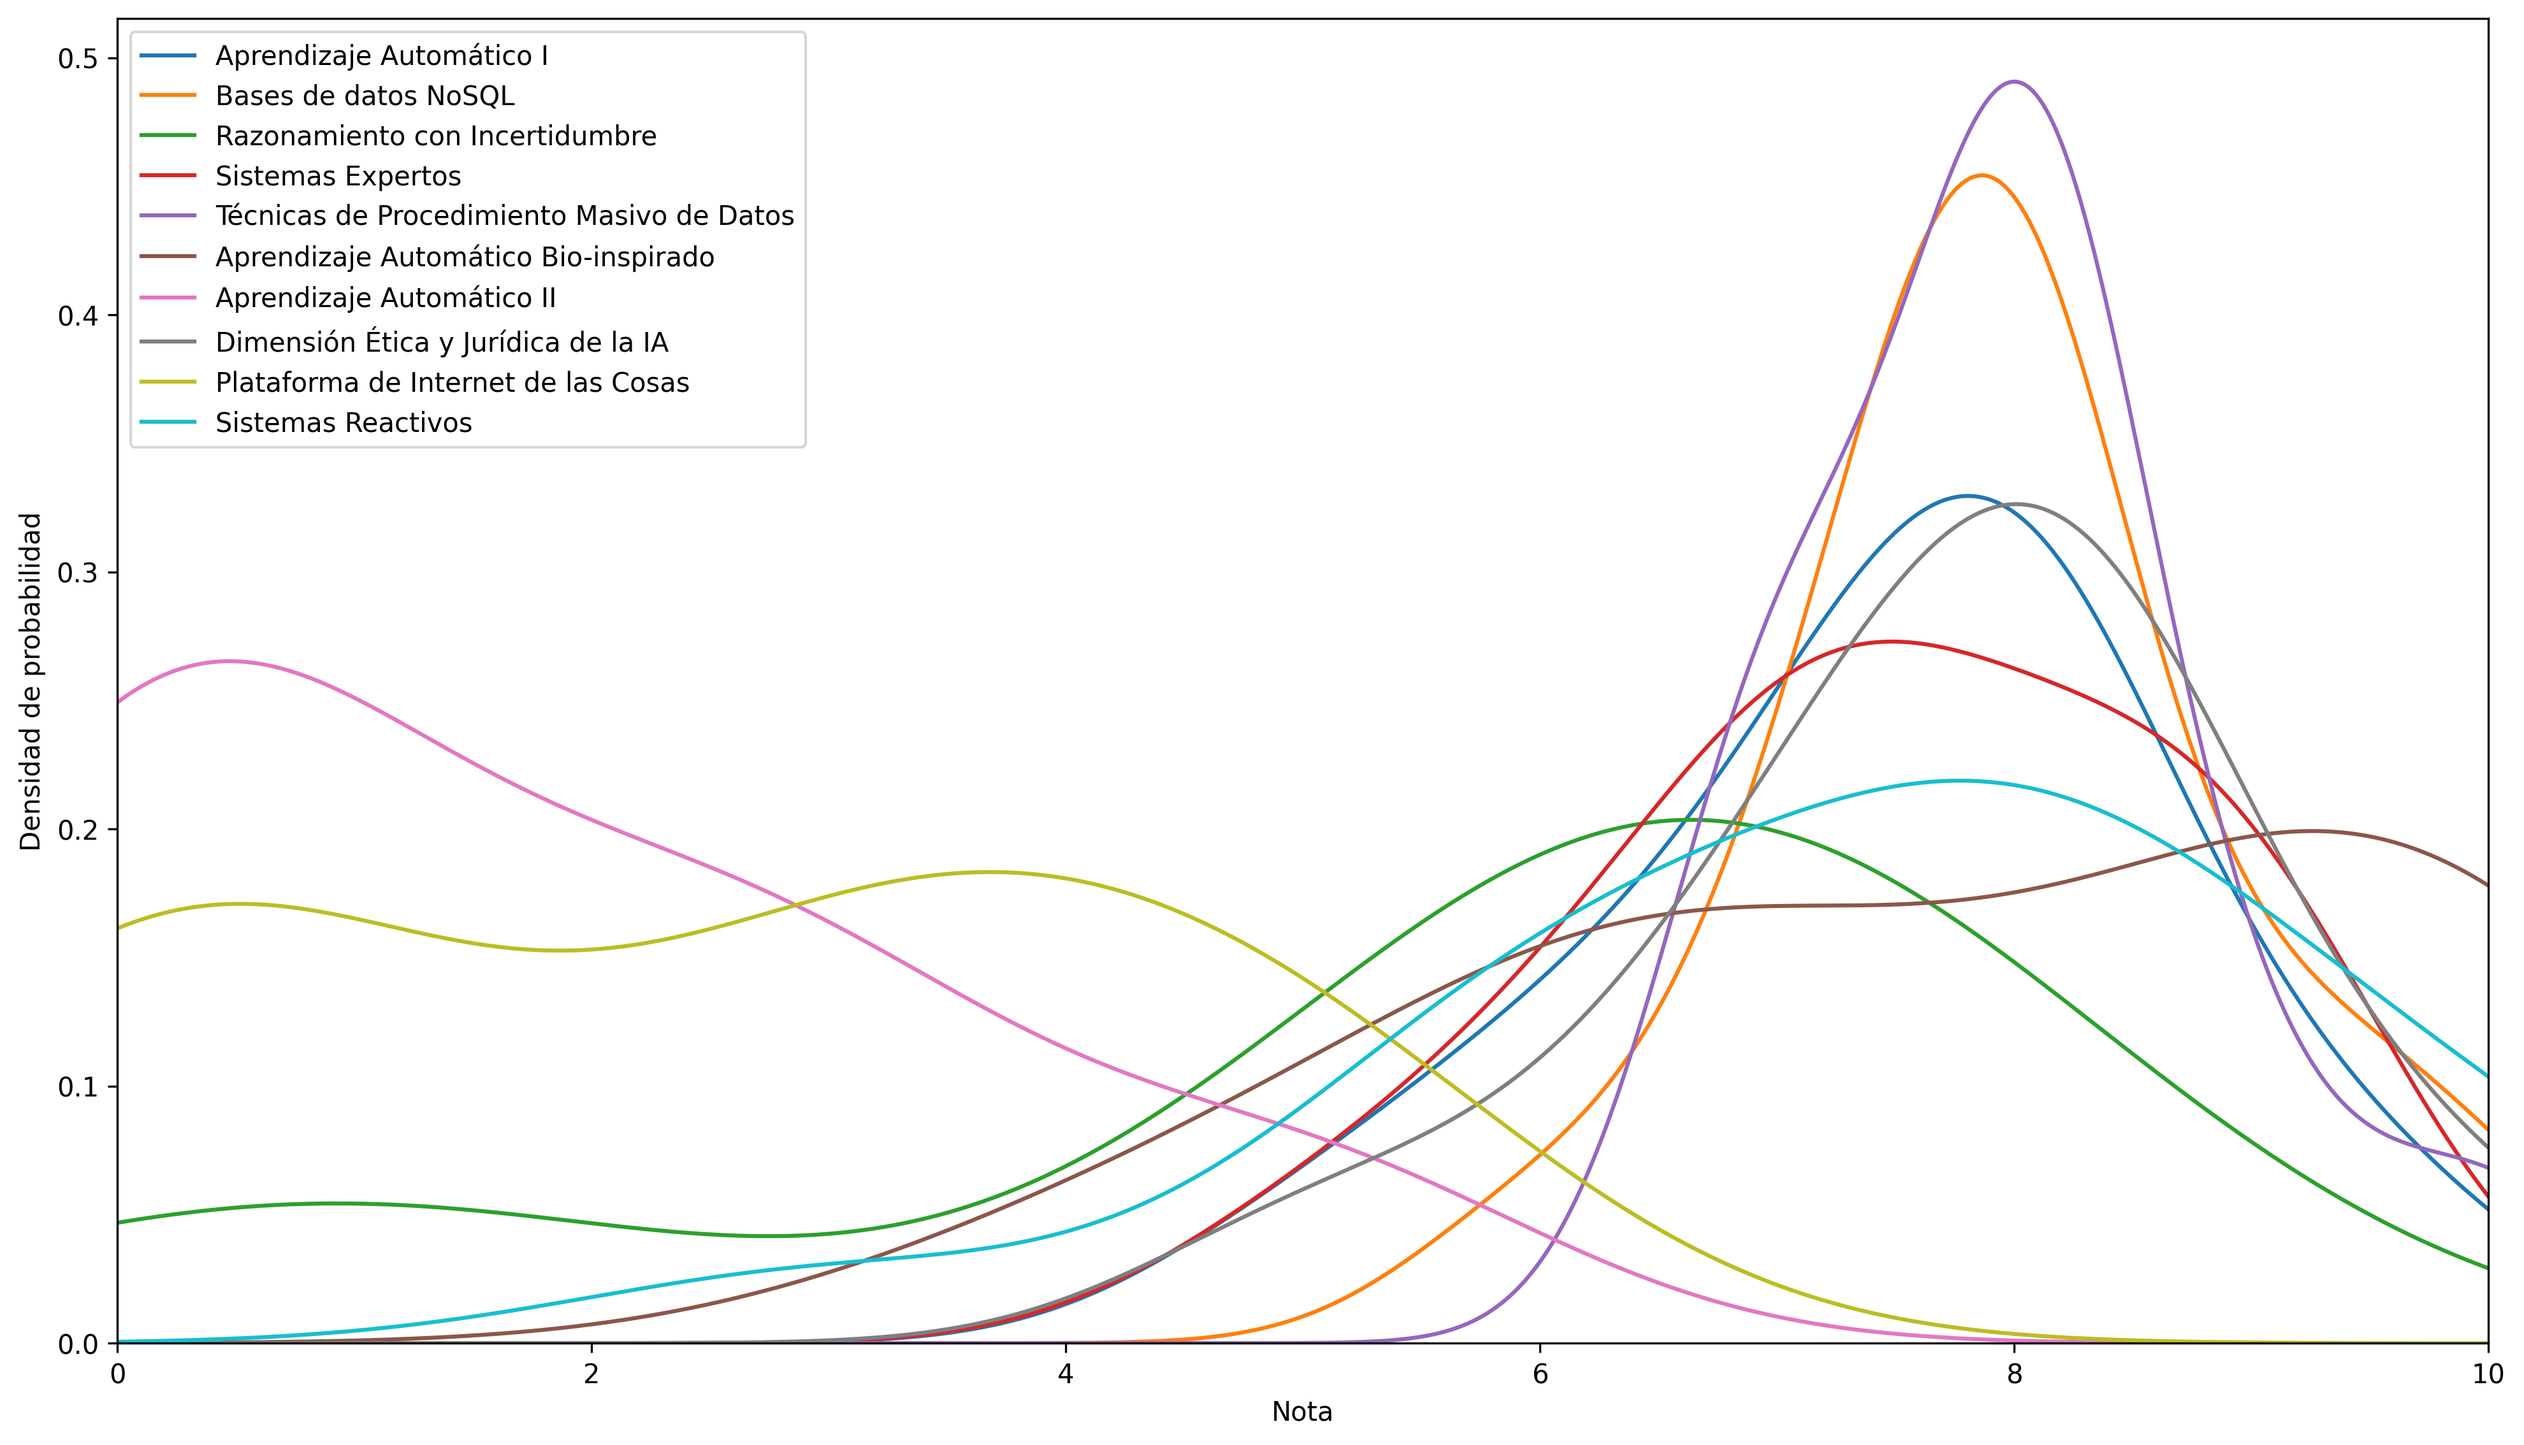
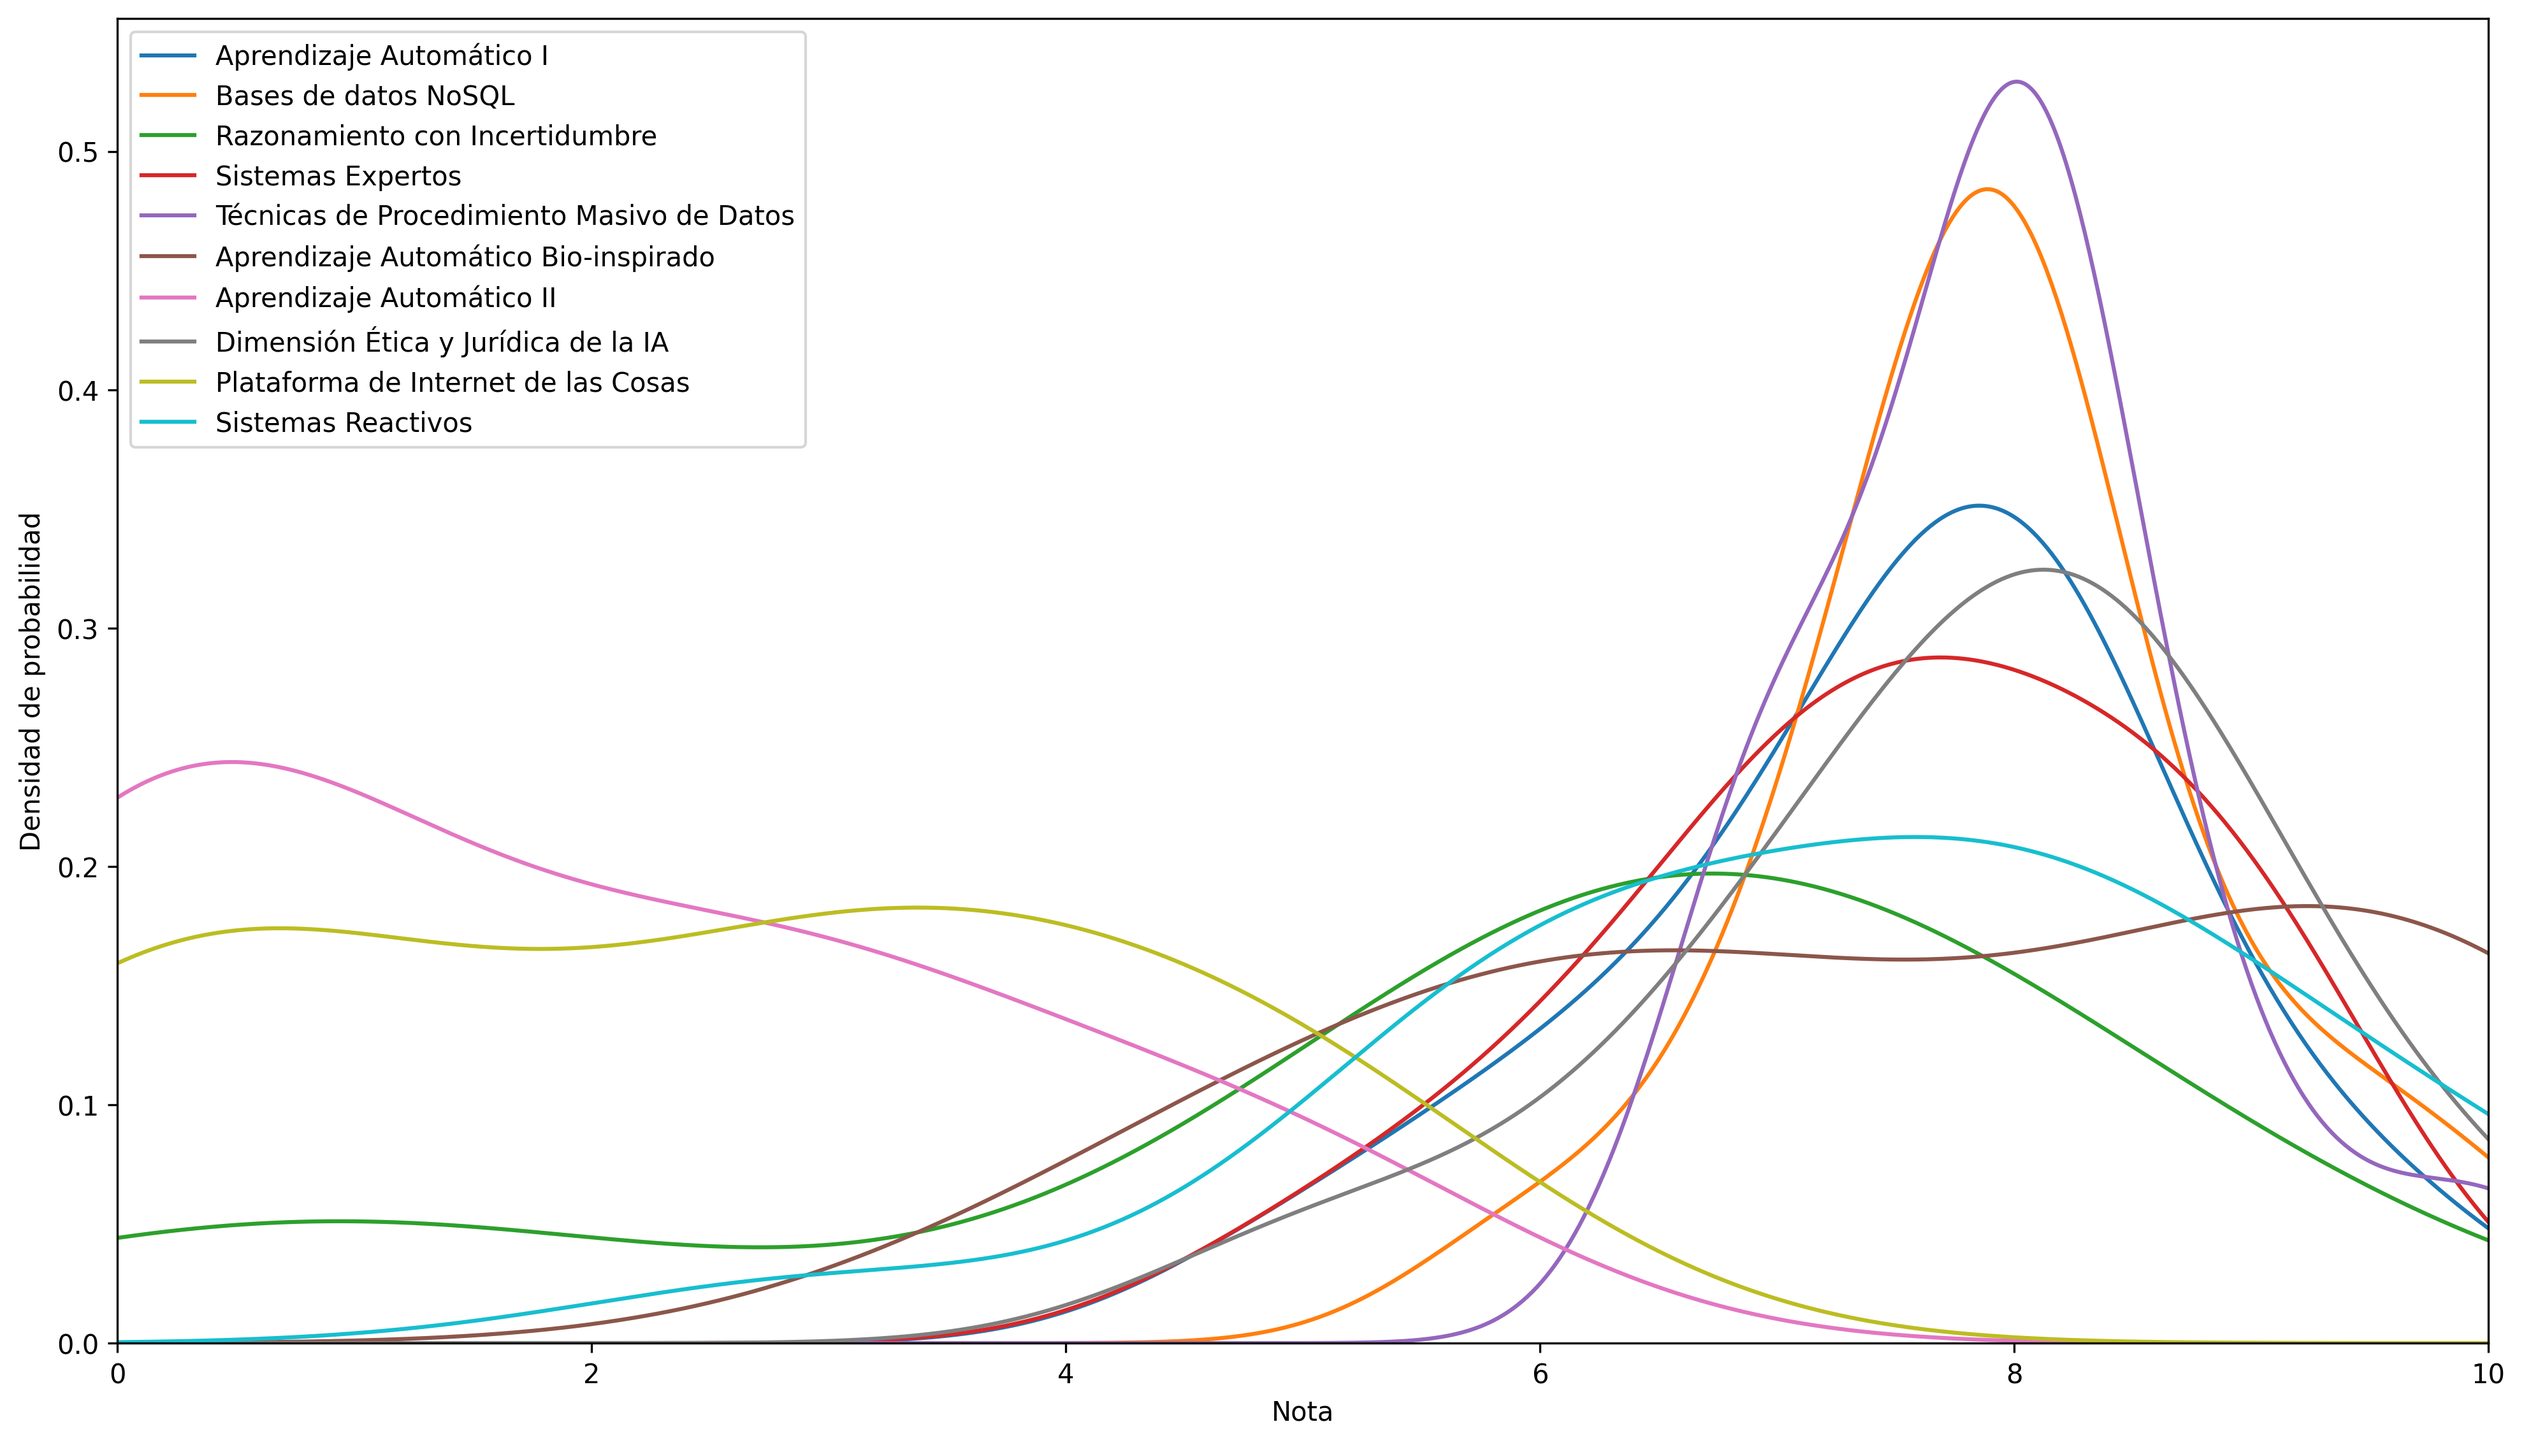
Executed main.py [GitHub Action]

diff --git a/README.md b/README.md
@@ -6,18 +6,18 @@ Este es un repositorio que calcula distintos métodos de votación y métricas p
 
 Estas son distintas métricas para todas las asignaturas, ordenadas por su media.
 
-| <img width="1000"><br><p align="center">Asignatura | <img width="1000"><br><p align="center">Media | <img width="1000"><br><p align="center">Desviación típica | <img width="1000"><br><p align="center">Mediana | <img width="1000"><br><p align="center">Moda | <img width="1000"><br><p align="center">Máximo | <img width="1000"><br><p align="center">Mínimo | <img width="1000"><br><p align="center">Número de alumnos |
-| :------------------------------------------------- | :-------------------------------------------: | :-------------------------------------------------------: | :---------------------------------------------: | :------------------------------------------: | :--------------------------------------------: | :--------------------------------------------: | --------------------------------------------------------: |
-| Técnicas de Procedimiento Masivo de Datos          |                     7.97                      |                           0.84                            |                        8                        |                      8                       |                       10                       |                       7                        |                                                        14 |
-| Bases de datos NoSQL                               |                     7.95                      |                           0.97                            |                        8                        |                      8                       |                       10                       |                       6                        |                                                        15 |
-| Aprendizaje Automático Bio-inspirado               |                     7.77                      |                           1.98                            |                        8                        |                      10                      |                       10                       |                       4                        |                                                        15 |
-| Dimensión Ética y Jurídica de la IA                |                     7.73                      |                           1.26                            |                        8                        |                      8                       |                       10                       |                       5                        |                                                        14 |
-| Aprendizaje Automático I                           |                     7.49                      |                           1.19                            |                        8                        |                      8                       |                      9.6                       |                       5                        |                                                        15 |
-| Sistemas Expertos                                  |                     7.49                      |                           1.23                            |                       7.5                       |                      7                       |                       9                        |                       5                        |                                                        15 |
-| Sistemas Reactivos                                 |                     7.35                      |                           1.85                            |                        8                        |                      8                       |                       10                       |                       3                        |                                                        15 |
-| Razonamiento con Incertidumbre                     |                     5.48                      |                           2.54                            |                       6.2                       |                      7                       |                       8                        |                       0                        |                                                        15 |
-| Plataforma de Internet de las Cosas                |                     2.39                      |                             2                             |                        3                        |                      0                       |                       5                        |                       0                        |                                                        14 |
-| Aprendizaje Automático II                          |                     1.68                      |                           1.78                            |                        1                        |                      0                       |                       5                        |                       0                        |                                                        15 |
+| <img width="1000"><br><p align="center">Asignatura  | <img width="1000"><br><p align="center">Media  | <img width="1000"><br><p align="center">Desviación típica  | <img width="1000"><br><p align="center">Mediana  | <img width="1000"><br><p align="center">Moda  | <img width="1000"><br><p align="center">Máximo  | <img width="1000"><br><p align="center">Mínimo  | <img width="1000"><br><p align="center">Número de alumnos |
+|:--|:--:|:--:|:--:|:--:|:--:|:--:|--:|
+| Técnicas de Procedimiento Masivo de Datos  | 7.97  | 0.81  | 8  | 8  | 10  | 7  | 15 |
+| Bases de datos NoSQL  | 7.96  | 0.94  | 8  | 8  | 10  | 6  | 16 |
+| Dimensión Ética y Jurídica de la IA  | 7.81  | 1.26  | 8  | 8  | 10  | 5  | 15 |
+| Aprendizaje Automático Bio-inspirado  | 7.6  | 2.04  | 7.5  | 10  | 10  | 4  | 16 |
+| Aprendizaje Automático I  | 7.52  | 1.16  | 8  | 8  | 9.6  | 5  | 16 |
+| Sistemas Expertos  | 7.52  | 1.2  | 7.75  | 7  | 9  | 5  | 16 |
+| Sistemas Reactivos  | 7.27  | 1.82  | 7.65  | 6  | 10  | 3  | 16 |
+| Razonamiento con Incertidumbre  | 5.7  | 2.61  | 6.35  | 7  | 9  | 0  | 16 |
+| Plataforma de Internet de las Cosas  | 2.37  | 1.93  | 3  | 0  | 5  | 0  | 15 |
+| Aprendizaje Automático II  | 1.83  | 1.82  | 1.5  | 0  | 5  | 0  | 16 |
 
 ## Distribuciones de probabilidad
 
@@ -36,14 +36,15 @@ Estas son las distribuciones normales usando la media y desviación típica de c
 Para el método Schulze se necesita un ranking de cada votante para todas las opciones. Como en este caso tenemos una nota numérica, se pone que un votante prefiere una asignatura sobre otra si le ha dado una nota mayor. Esto se divide por el número de alumnos que han votado a las dos asignaturas para normalizar.
 
 | <img width="1000"><br><p align="center">Asignatura |
-| :------------------------------------------------: |
-|                Bases de datos NoSQL                |
-|     Técnicas de Procedimiento Masivo de Datos      |
-|        Aprendizaje Automático Bio-inspirado        |
-|        Dimensión Ética y Jurídica de la IA         |
-|              Aprendizaje Automático I              |
-|                 Sistemas Expertos                  |
-|                 Sistemas Reactivos                 |
-|           Razonamiento con Incertidumbre           |
-|        Plataforma de Internet de las Cosas         |
-|             Aprendizaje Automático II              |
+|:--:|
+| Bases de datos NoSQL |
+| Técnicas de Procedimiento Masivo de Datos |
+| Dimensión Ética y Jurídica de la IA |
+| Aprendizaje Automático Bio-inspirado |
+| Aprendizaje Automático I |
+| Sistemas Expertos |
+| Sistemas Reactivos |
+| Razonamiento con Incertidumbre |
+| Plataforma de Internet de las Cosas |
+| Aprendizaje Automático II |
+
